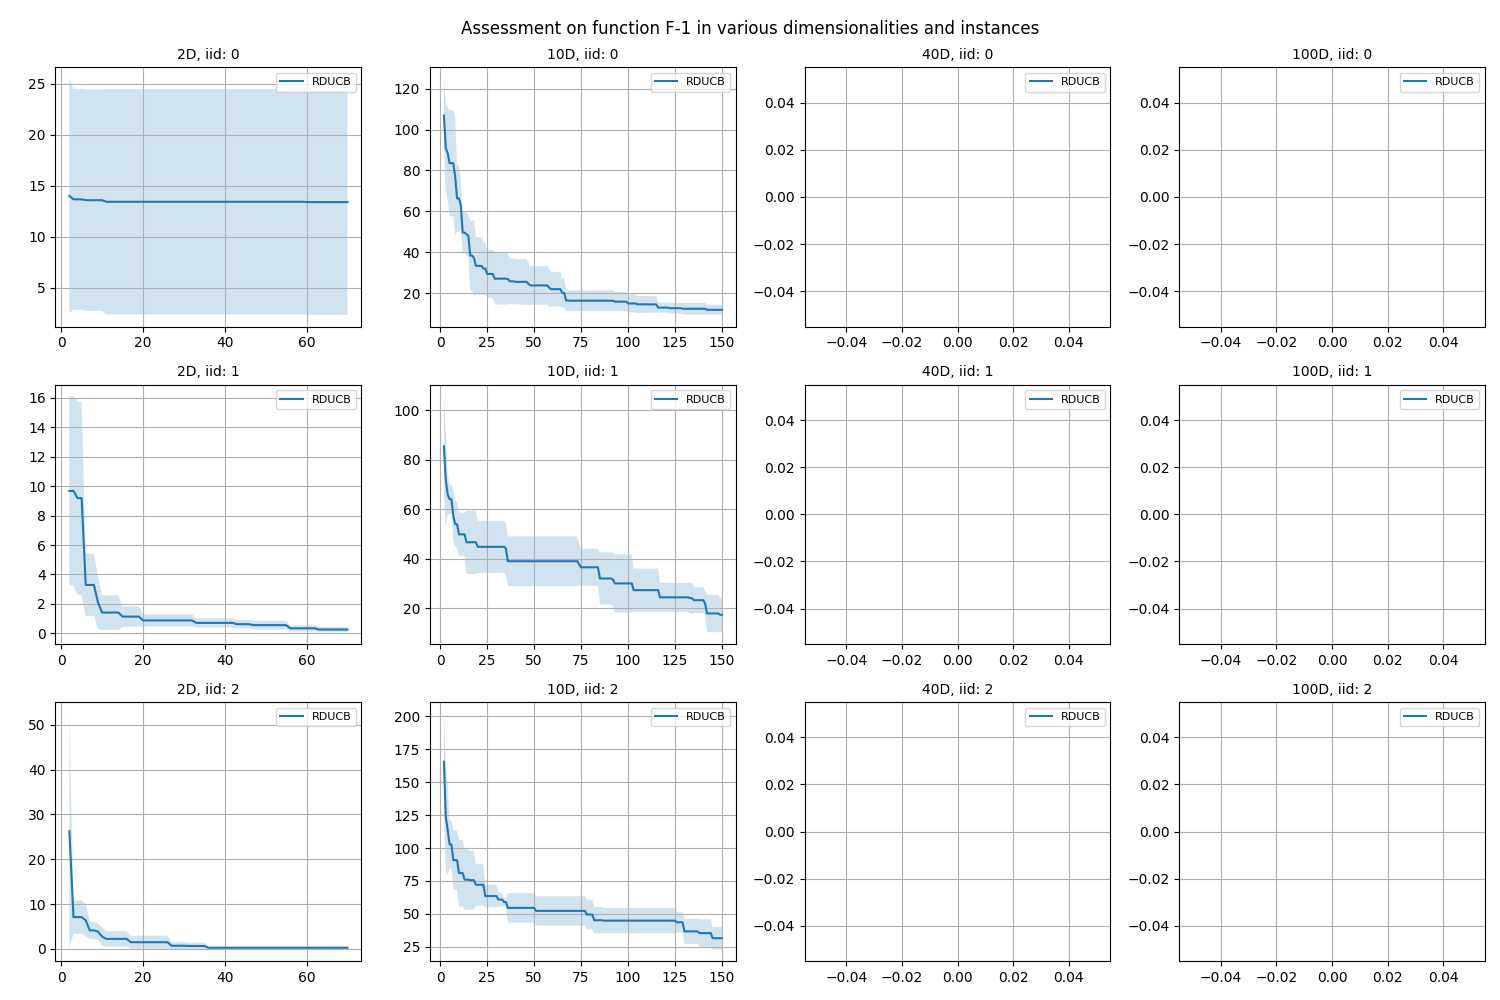
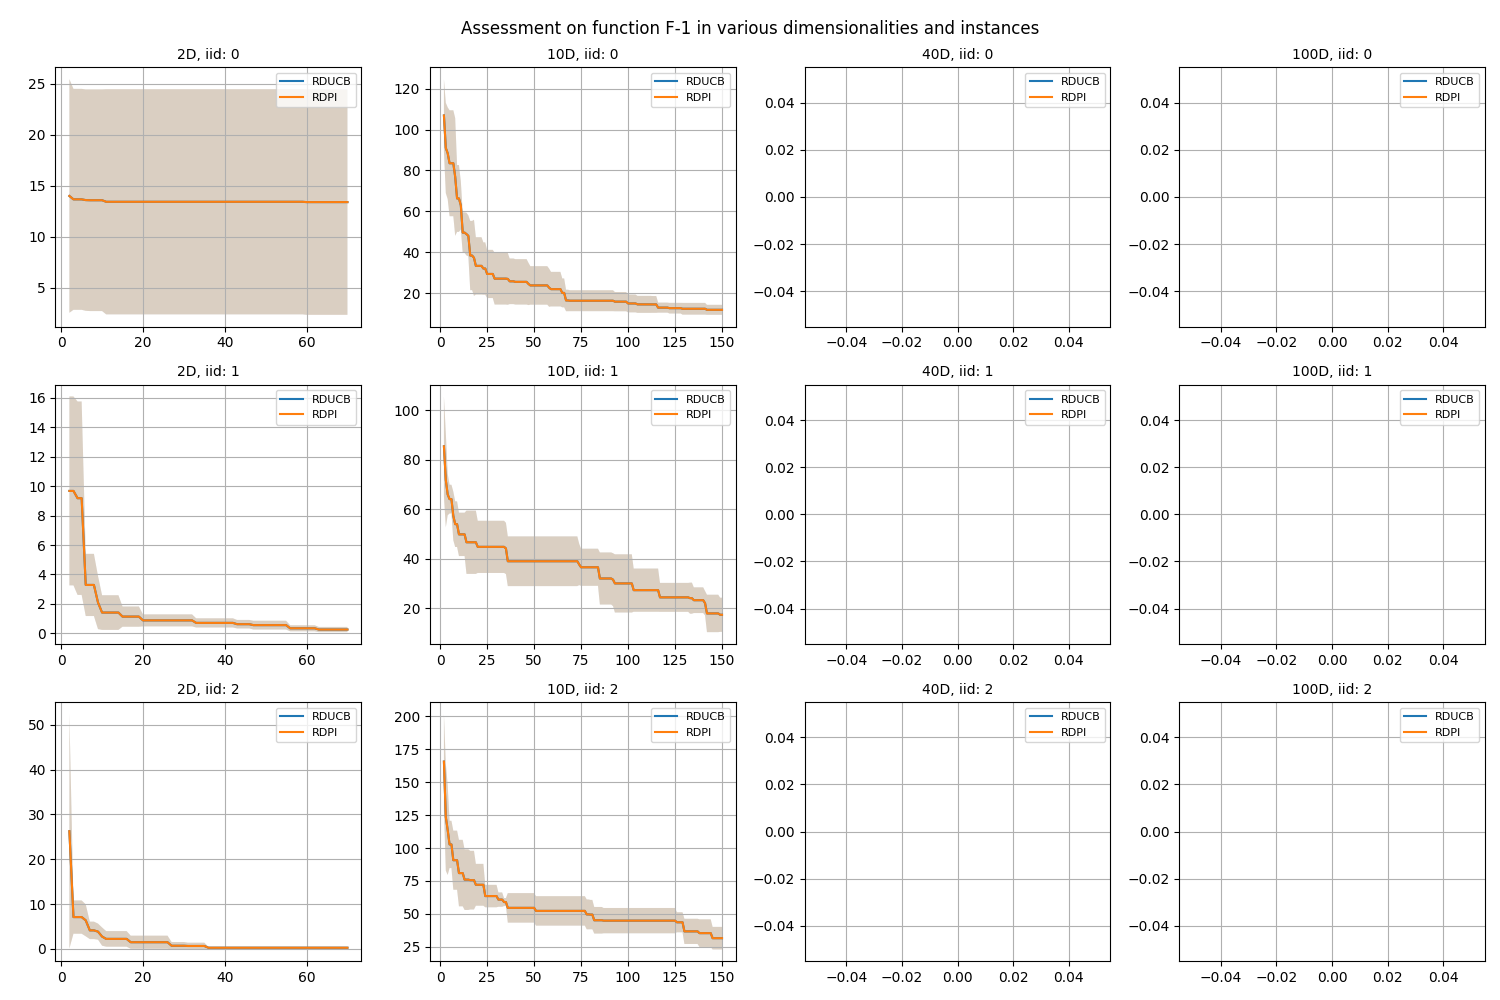
added wrappers

diff --git a/wrapper.py b/wrapper.py
@@ -424,6 +424,111 @@ n_rand=self.Doe_size, dim=self.dim,)
         return self.opt.mybo.cum_iteration_time
 
 
+
+class RDEIWrapper:
+    def __init__(self, func, dim, ub, lb, total_budget, DoE_size, random_seed):
+        # import sys
+        # sys.path.append('./mylib/' + 'lib_' + "linearPCABO")
+        # print(sys.path)
+        import pathlib
+        my_dir = pathlib.Path(__file__).parent.resolve()
+        sys.path.append(os.path.join(my_dir, 'mylib', 'lib_RDEI/HEBO/RDEI'))
+        print(sys.path)
+        # sys.path.insert(0, bayes_bo_lib)
+        # print(sys.path)
+        self.func = func
+        self.dim = dim
+        self.ub = ub
+        self.lb = lb
+        self.total_budget = total_budget
+        self.Doe_size = DoE_size
+        self.random_seed = random_seed
+
+    def run(self):
+        # import sys
+        # sys.path.insert(0, "./mylib/lib_linearPCABO/Bayesian-Optimization")
+
+        from hdbo.algorithms import RDUCB
+        self.opt = RDUCB( algorithm_random_seed=self.random_seed,
+    eps=-1,
+    exploration_weight= 'lambda t: 0.5 * np.log(2*t)',
+    graphSamplingNumIter=100,
+    learnDependencyStructureRate=1,
+    lengthscaleNumIter=2,
+    max_eval=-4,
+    noise_var= 0.1,
+    param_n_iter=16,
+    size_of_random_graph=0.2,
+    # data_random_seed=self.random_seed,
+    fn_noise_var=0.15,
+    grid_size=150,
+    fn= self.func,
+n_iter=self.total_budget-self.Doe_size,
+n_rand=self.Doe_size, dim=self.dim,)
+        self.opt.run()
+
+    def get_acq_time(self):
+        return self.opt.mybo.acq_opt_time
+
+    def get_mode_time(self):
+        return self.opt.mybo.mode_fit_time
+
+    def get_iter_time(self):
+        return self.opt.mybo.cum_iteration_time
+    
+    
+class RDPIWrapper:
+    def __init__(self, func, dim, ub, lb, total_budget, DoE_size, random_seed):
+        # import sys
+        # sys.path.append('./mylib/' + 'lib_' + "linearPCABO")
+        # print(sys.path)
+        import pathlib
+        my_dir = pathlib.Path(__file__).parent.resolve()
+        sys.path.append(os.path.join(my_dir, 'mylib', 'lib_RDPI/HEBO/RDPI'))
+        print(sys.path)
+        # sys.path.insert(0, bayes_bo_lib)
+        # print(sys.path)
+        self.func = func
+        self.dim = dim
+        self.ub = ub
+        self.lb = lb
+        self.total_budget = total_budget
+        self.Doe_size = DoE_size
+        self.random_seed = random_seed
+
+    def run(self):
+        # import sys
+        # sys.path.insert(0, "./mylib/lib_linearPCABO/Bayesian-Optimization")
+
+        from hdbo.algorithms import RDUCB
+        self.opt = RDUCB( algorithm_random_seed=self.random_seed,
+    eps=-1,
+    exploration_weight= 'lambda t: 0.5 * np.log(2*t)',
+    graphSamplingNumIter=100,
+    learnDependencyStructureRate=1,
+    lengthscaleNumIter=2,
+    max_eval=-4,
+    noise_var= 0.1,
+    param_n_iter=16,
+    size_of_random_graph=0.2,
+    # data_random_seed=self.random_seed,
+    fn_noise_var=0.15,
+    grid_size=150,
+    fn= self.func,
+n_iter=self.total_budget-self.Doe_size,
+n_rand=self.Doe_size, dim=self.dim,)
+        self.opt.run()
+
+    def get_acq_time(self):
+        return self.opt.mybo.acq_opt_time
+
+    def get_mode_time(self):
+        return self.opt.mybo.mode_fit_time
+
+    def get_iter_time(self):
+        return self.opt.mybo.cum_iteration_time
+
+
 class turbo1Wrapper:
     def __init__(self, func, dim, ub, lb, total_budget, DoE_size, random_seed):
         #import sys
@@ -888,9 +993,16 @@ def wrapopt(optimizer_name, func, ml_dim, ml_total_budget, ml_DoE_size, random_s
         return Py_CMA_ES_Wrapper(func=func, dim=ml_dim, ub=ub, lb=lb, total_budget=ml_total_budget,
                              random_seed=random_seed)
 
-    if optimizer_name == 'RDUCB' or optimizer_name == "RDPI" or optimizer_name == "RDEI":
+    if optimizer_name == 'RDUCB':
         return RDUCBWrapper(func=func, dim=ml_dim, ub=ub, lb=lb, total_budget=ml_total_budget, DoE_size=ml_DoE_size,
                              random_seed=random_seed)
+    if optimizer_name == "RDEI":
+        return RDEIWrapper(func=func, dim=ml_dim, ub=ub, lb=lb, total_budget=ml_total_budget, DoE_size=ml_DoE_size,
+                             random_seed=random_seed)   
+    if optimizer_name == "RDPI":
+        return RDPIWrapper(func=func, dim=ml_dim, ub=ub, lb=lb, total_budget=ml_total_budget, DoE_size=ml_DoE_size,
+                             random_seed=random_seed)   
+        
     if optimizer_name == 'ALEBO':
         return ALEBOWrapper(func=func, dim=ml_dim, ub=ub, lb=lb, total_budget=ml_total_budget, DoE_size=ml_DoE_size,
                              random_seed=random_seed)

diff --git a/visualize_results.py b/visualize_results.py
@@ -3,7 +3,7 @@ import numpy as np
 import os
 import pandas as pd
 
-ALGS = ["RDUCB"]
+ALGS = ["RDUCB","RDPI","RDEI"]
 REP = [0,1,2,3,4] # implicit
 FUNC = [1,8,12,15,21]
 IDS = [0,1,2]
@@ -59,6 +59,7 @@ for curfunc in FUNC:
                 
                 try: # Could fail for some reason?
                     ax.plot(X, y_mu, label=f"{alg}")
+                    print(alg,X,y_mu)
                     ax.fill_between(X, y_mu-y_std, y_mu+y_std,alpha=0.2)
                 except:
                     pass

diff --git a/run_all.py b/run_all.py
@@ -1,5 +1,8 @@
 from os import listdir, system
 from os.path import isfile, join
 exp_dir = [f for f in listdir("./") if f[0]+f[1]+f[2]+f[3] == "run_" and f[-1] == "s"][0]
-for exp in listdir(f"{exp_dir}/configs/"):
+all_exp = listdir(f"{exp_dir}/configs/")
+for i, exp in enumerate(all_exp):
+    print(f"[{'='*(int((i+1)/len(all_exp))*30)}{' '*(30-int((i+1)/len(all_exp))*30)}] {i+1}/{len(all_exp)}")
     system(f"python run_experiment.py ./{exp_dir}/configs/{exp}")
+    
